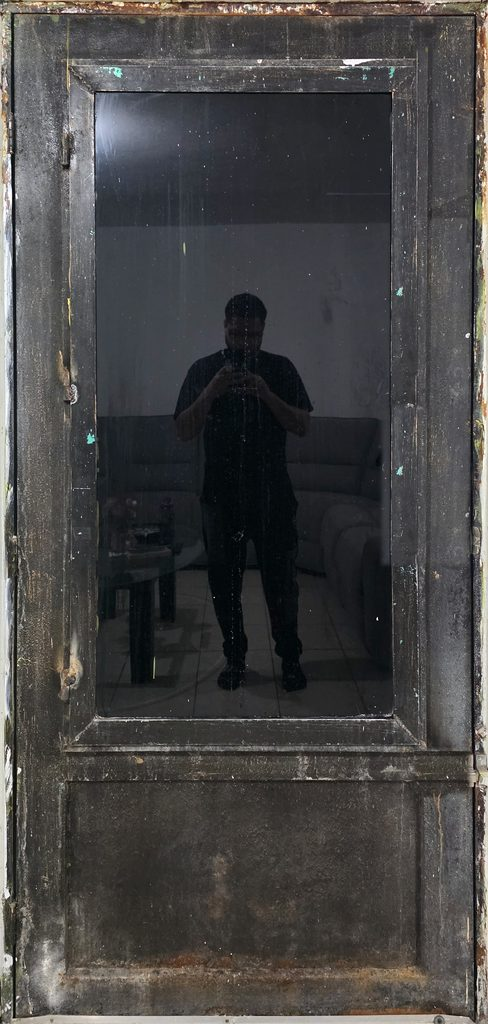
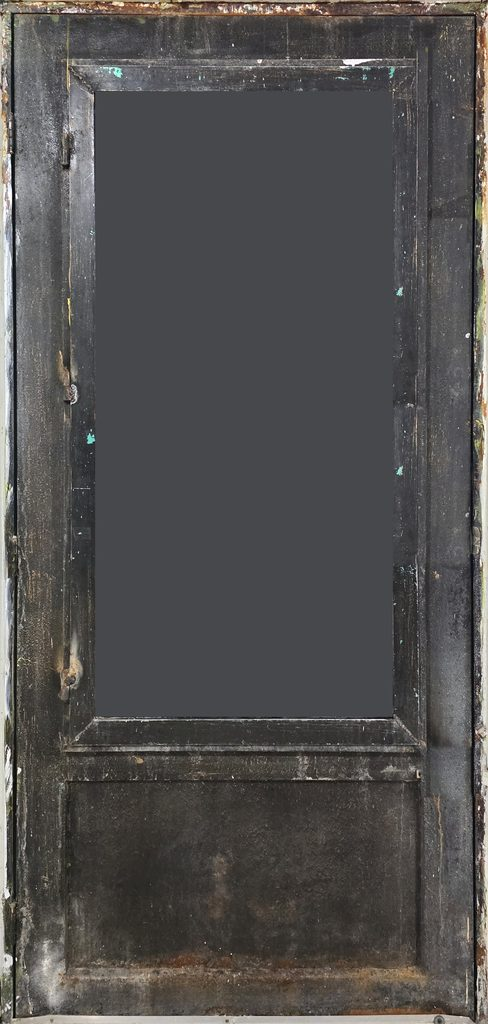
fix(texturas): D03 sin el reflejo del vidrio ni el pasador de adentro
- En el hueco de una hoja con `glass_material`, la textura toma el color y la
  rugosidad de ese vidrio en vez de la foto: en el recorrido web se veía el
  reflejo del dueño. Aplica también a la puerta de la cocina (D04).
- El pasador y su cerradero van solo por dentro (dato del dueño): se tapan con el
  mismo larguero y marco de más arriba, no con un trozo del travesaño.

Claude-Session: https://claude.ai/code/session_01SexK3rCH4ET2xfV6w49QNn

diff --git a/house_twin/textures.py b/house_twin/textures.py
@@ -458,6 +458,11 @@ def build_procedural(spec: dict, out: Path, photos_root: Path = ROOT) -> Path:
     return out
 
 
+def _glass_pbr(name: str) -> dict:
+    """PBR del vidrio de una hoja: sale de su `material.json`, así que el vidrio se genera antes que la puerta."""
+    return json.loads((TEXTURES_DIR / name / 'material.json').read_text())['pbr']
+
+
 def build_texture(spec_path: Path, photos_root: Path = ROOT) -> Path:
     spec = json.loads(spec_path.read_text())
     if spec.get('kind') == 'constant':
@@ -476,9 +481,23 @@ def build_texture(spec_path: Path, photos_root: Path = ROOT) -> Path:
     base = apply_patches(base, spec.get('patches', []))
     if spec.get('seamless'):
         base = make_seamless(base)
+    W, H = size_px
+    glass = None
+    if 'opacity' in spec:
+        alpha = _opacity((H, W), spec['opacity'], base)
+        px = np.asarray(base).copy()
+        fill = spec['opacity'].get('fill_pieces_srgb')
+        if fill:  # en los huecos, las piezas finas toman el color de la pintura: su borde en la foto es cielo o fondo
+            holes = _opacity((H, W), {'holes': spec['opacity']['holes']}) == 0
+            px[holes & (alpha > 0)] = fill
+        if spec['opacity'].get('glass_material'):
+            # en el vidrio la foto muestra reflejos (el fotógrafo, la sala) o lo de atrás, no la superficie:
+            # se pinta con el color del material del vidrio y queda liso
+            glass = _glass_pbr(spec['opacity']['glass_material'])
+            px[alpha == 0] = glass['basecolor_srgb']
+        base = Image.fromarray(px)
 
     relief = spec['relief']
-    W, H = size_px
     grain = _grain(base, relief.get('grain_blur_px', GRAIN_BLUR_PX))
     rough = spec['roughness']
     roughness = rough['base'] - grain * rough['grain']
@@ -502,6 +521,8 @@ def build_texture(spec_path: Path, photos_root: Path = ROOT) -> Path:
             roughness = np.where(channel, rough['channel'], roughness)
         roughness = np.where(grout, rough['grout'], roughness)
     height = shape_height + grain * relief['grain_mm'] / 1000
+    if glass is not None:
+        roughness = np.where(alpha == 0, glass['roughness'], roughness)
     roughness = np.clip(roughness, 0, 1)
 
     out = TEXTURES_DIR / spec['name']
@@ -512,14 +533,6 @@ def build_texture(spec_path: Path, photos_root: Path = ROOT) -> Path:
     _normal_map(height, px_per_m).resize(detail_px, Image.LANCZOS).save(out / 'normal.png', optimize=True)
     maps = {'basecolor': 'basecolor.jpg', 'roughness': 'roughness.png', 'normal': 'normal.png (OpenGL)'}
     if 'opacity' in spec:
-        alpha = _opacity(grain.shape, spec['opacity'], base)
-        fill = spec['opacity'].get('fill_pieces_srgb')
-        if fill:  # en los huecos, las piezas finas toman el color de la pintura: su borde en la foto es cielo o fondo
-            holes = _opacity(grain.shape, {'holes': spec['opacity']['holes']}) == 0
-            px = np.asarray(base).copy()
-            px[holes & (alpha > 0)] = fill
-            base = Image.fromarray(px)
-            base.save(out / 'basecolor.jpg', quality=92)
         Image.fromarray((alpha * 255).astype(np.uint8)).save(out / 'opacity.png', optimize=True)
         maps['opacity'] = 'opacity.png (0 = vidrio)'
     material = {

diff --git a/tests/test_textures.py b/tests/test_textures.py
@@ -176,3 +176,26 @@ def test_weld_lines_spread_points_at_pitch():
                                     'points_frac': [[0.9, 0.9]]})
     assert points[0] == (0.9, 0.9) and len(points) == 6
     assert points[1] == pytest.approx((0.1, 0.5)) and points[-1] == pytest.approx((0.5, 0.5))
+
+
+def test_glass_takes_its_material_not_the_photo(tmp_path, monkeypatch):
+    monkeypatch.setattr(textures, 'TEXTURES_DIR', tmp_path / 'out')
+    (tmp_path / 'out' / 'vidrio').mkdir(parents=True)
+    (tmp_path / 'out' / 'vidrio' / 'material.json').write_text(json.dumps({'pbr': {'basecolor_srgb': [70, 72, 76], 'roughness': 0.03}}))
+    photo = np.full((400, 300, 3), 40, np.uint8)
+    photo[150:250, 100:200] = (200, 150, 120)  # «reflejo» en el vidrio
+    Image.fromarray(photo).save(tmp_path / 'foto.jpg')
+    spec = {
+        'name': 'hoja', 'applies_to': {'openings': ['D01'], 'source': 'test'}, 'photo': 'foto.jpg',
+        'corners_px': {'top_left': [0, 0], 'top_right': [300, 0], 'bottom_right': [300, 400], 'bottom_left': [0, 400]},
+        'size_m': {'width': 0.3, 'height': 0.4, 'source': 'test'}, 'px_per_m': 500, 'color': {'as_shot': True},
+        'relief': {'type': 'flat', 'grain_mm': 0.2}, 'roughness': {'base': 0.7, 'grain': 0.1},
+        'opacity': {'holes': [[0.25, 0.25, 0.75, 0.75]], 'glass_material': 'vidrio'},
+    }
+    (tmp_path / 'spec.json').write_text(json.dumps(spec))
+    out = textures.build_texture(tmp_path / 'spec.json', photos_root=tmp_path)
+    base = np.asarray(Image.open(out / 'basecolor.jpg')).astype(int)
+    assert np.abs(base[100, 75] - [70, 72, 76]).max() <= 3       # el vidrio lleva su color, no el reflejo
+    assert np.abs(base[10, 10] - 40).max() <= 3                  # el marco sí sale de la foto
+    rough = np.asarray(Image.open(out / 'roughness.png')).astype(float) / 255
+    assert rough[50, 37] == pytest.approx(0.03, abs=0.01)

diff --git a/docs/analysis/04-acabados.md b/docs/analysis/04-acabados.md
@@ -103,7 +103,8 @@ Los defectos reales (salpicaduras de pintura, marcas) se conservan.
 - **Textura:**
   - Usa el vano D03 (1.00 × 2.10 m) y su relieve tiene más grano, para reproducir la superficie rugosa.
   - Los herrajes se taparon con el mismo larguero; ese parche repite una mancha verde agua de más arriba.
-  - El cerradero del pasador queda, porque va en el marco.
+  - **Pasador y cerradero (corrección del dueño, 2026-10-08):** van **solo por dentro**. Como la misma textura se ve de los dos lados, el recorrido los mostraba también hacia el pórtico. Se tapan con el mismo larguero y marco de más arriba (antes se tapaban con un trozo del travesaño, que corre en horizontal). Irán como objeto 3D solo en la cara de la sala.
+  - **Vidrio sin foto:** la foto tenía en el vidrio el reflejo del dueño y de la sala, y el recorrido web lo dejaba ver, porque el vidrio de una hoja muestra un 30 % del color base. Ahora, en el hueco de una hoja con `glass_material`, el generador pinta el color de ese vidrio y lo deja liso. Blender no cambia, porque ahí ya usaba el material del vidrio. También aplica a la puerta de la cocina (D04).
 
 ### 7. Azulejo del baño con regadera (23:33:31 y 07:53:10)
 
